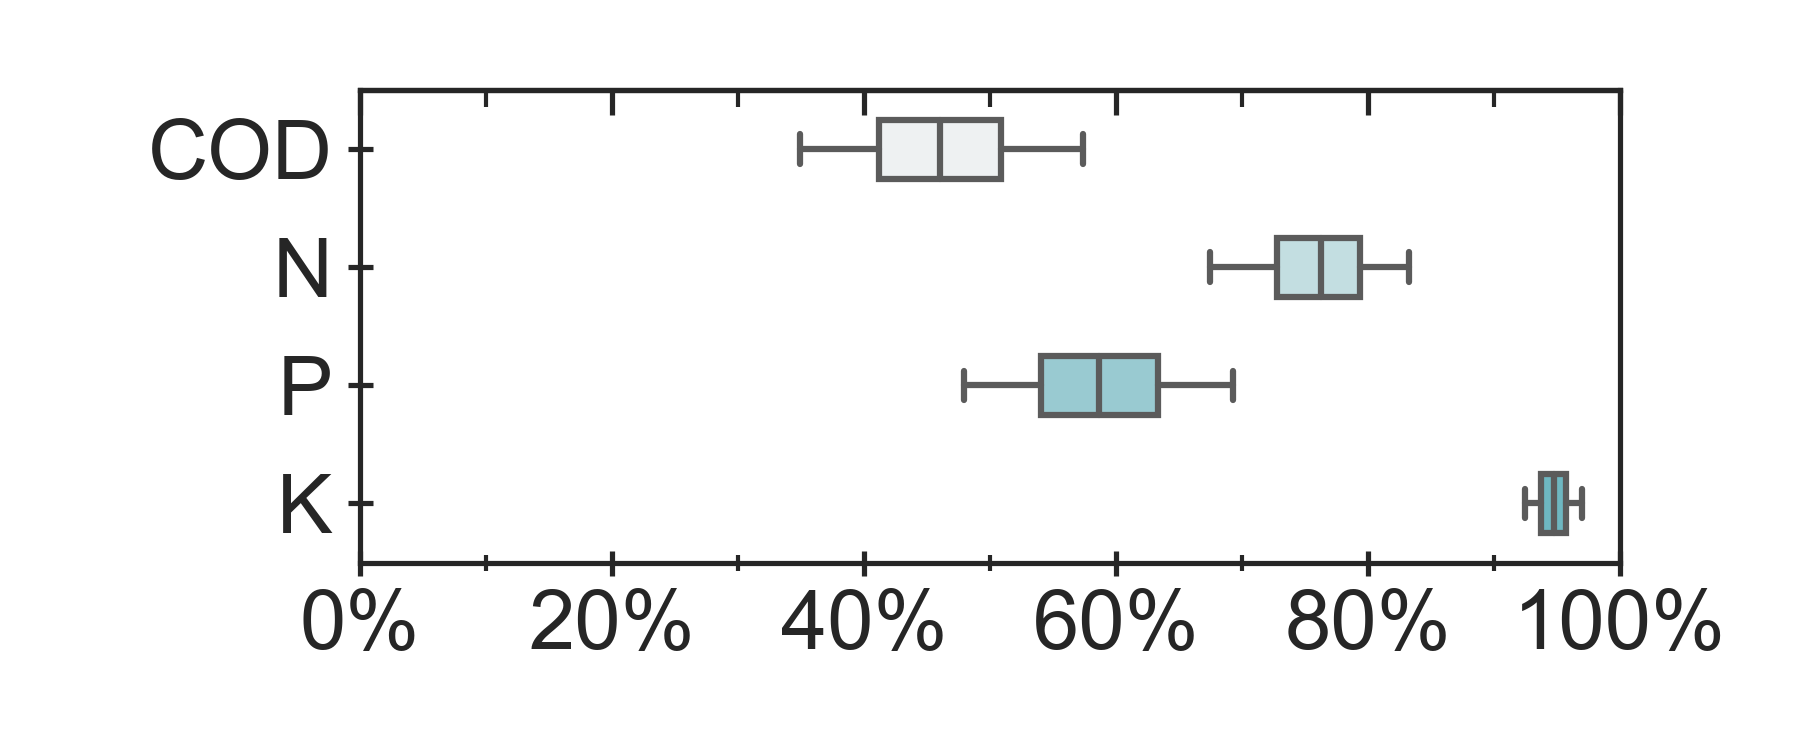
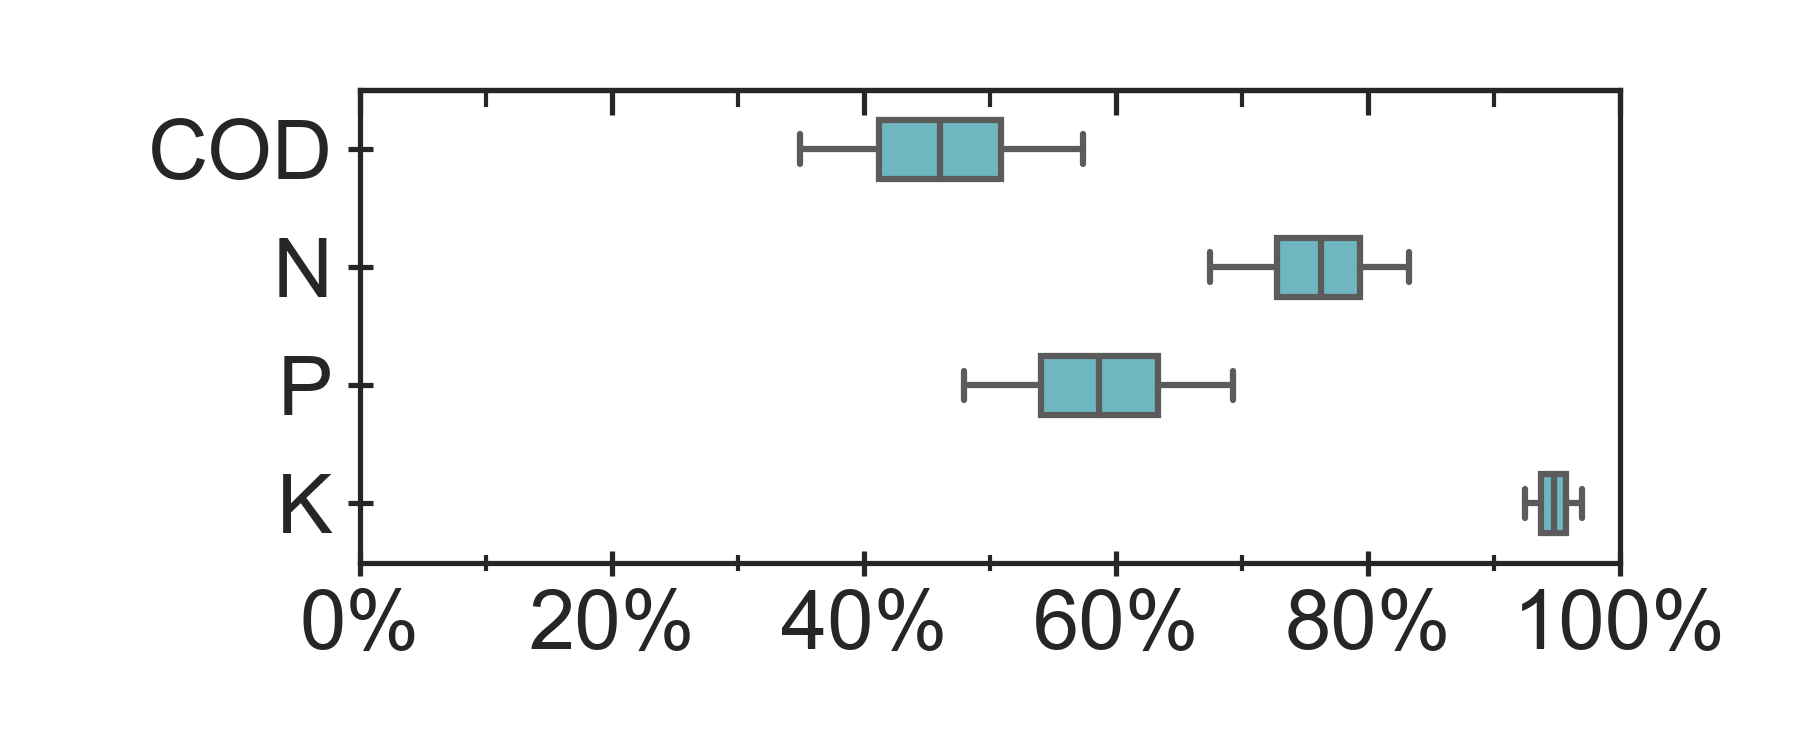
minor updates to bwaise figures

Changed region(s): [[0.56, 0.46, 0.6533, 0.552], [0.4667, 0.1533, 0.56, 0.2453], [0.6844, 0.3067, 0.7778, 0.3987]]

diff --git a/exposan/bwaise/analyses.py b/exposan/bwaise/analyses.py
@@ -72,13 +72,15 @@ def save_reports(system):
 
 
 # Plot recoveries as 1D-density plots
-def plot_box(model, ID, color, metrics, ax_dct, kind='horizontal',
+def plot_box(model, ID, color, metrics, ax_dct, kind='horizontal', adjust_hue=False,
              whis=(5, 95), sym=''):
     if kind == 'horizontal':
         fig, ax = s.plot_uncertainties(model, y_axis=metrics, kind='box',
+                                       adjust_hue=adjust_hue,
                                        center_kws={'color': color, 'width': 0.5,
                                                    'whis': whis, 'sym': sym})
-        ax.get_legend().remove()
+        if adjust_hue:
+            ax.get_legend().remove()
         fig.set_figheight(2.5)
         ticks = np.arange(0, 1.2, 0.2)
         ax.set(xlabel='', xlim=(0, 1), xticks=ticks)
@@ -96,7 +98,8 @@ def plot_box(model, ID, color, metrics, ax_dct, kind='horizontal',
         fig, ax = s.plot_uncertainties(model, x_axis=metrics, kind='box',
                                        center_kws={'color': color, 'width': 0.5,
                                                    'whis': whis, 'sym': sym})
-        ax.get_legend().remove()
+        if adjust_hue:
+            ax.get_legend().remove()
         fig.set_figwidth(2.5)
         ticks = np.arange(0, 1.2, 0.2)
         ax.set_xticklabels([i.name.lstrip('Total ') for i in metrics], fontsize=20)

diff --git a/exposan/bsm1/system.py b/exposan/bsm1/system.py
@@ -180,7 +180,7 @@ def run(t, t_step, method=None, **kwargs):
                       print_msg=True,
                       **kwargs)
     srt = get_SRT(bsm1, bio_IDs)
-    print(f'Estimated SRT assuming at steady-state is {round(srt, 2)} days')
+    print(f'Estimated SRT assuming at steady state is {round(srt, 2)} days')
 
 if __name__ == '__main__':
     t = 50
